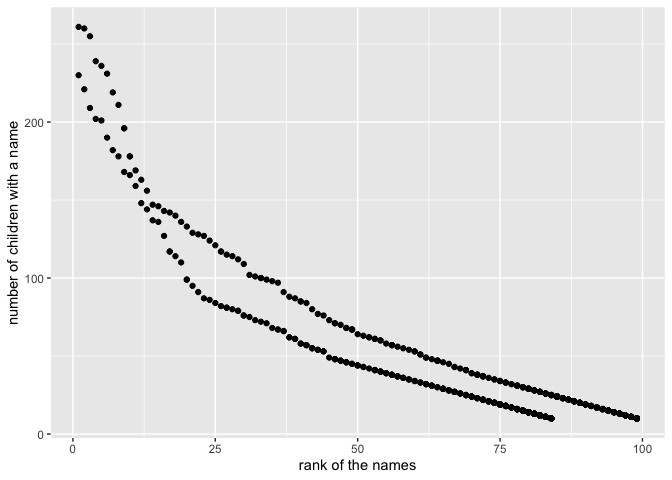
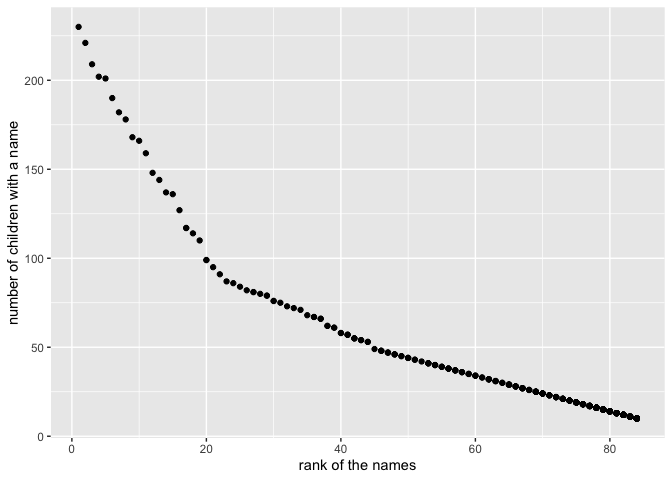
This is version 2 of homework. Changes: 1.Understanding of Q3 has been changed; 2.Discover the problem in Q2: There is 2 in prez_gop's original data, change filter "value == 1" to "value != 0".

diff --git a/p8105_hw2_ym2771.md b/p8105_hw2_ym2771.md
@@ -49,7 +49,7 @@ precip_data <-
     mutate(Month = month.name[Month])
 ```
 
-  - The total precipitation in 2018 is 32.93
+  - The total precipitation in 2018 is 23.5
 
   - The median number of sports balls in a dumpster in 2017 is 8
 
@@ -65,7 +65,7 @@ pols_month <-
     arrange(year, month) %>% 
     mutate(month = month.name[month]) %>%
     pivot_longer(cols = c(prez_gop, prez_dem),names_to = "president", names_prefix = "prez_",values_to = "value") %>% 
-    filter(value == 1) %>% 
+    filter(value != 0) %>% 
     select(-value,-day)
 ```
 
@@ -145,7 +145,7 @@ FiveThirtyEight <-
 
     ## Joining, by = c("year", "month")
 
-  - The first data frame “pols\_month” is the basic data frame with 817
+  - The first data frame “pols\_month” is the basic data frame with 822
     rows \* 9 columns, the range of year is from 1947 to 2015, and the
     names of the key variables are gov\_gop, sen\_gop, rep\_gop,
     gov\_dem, sen\_dem, rep\_dem, president
@@ -220,7 +220,7 @@ Ethan <-
 ``` r
 plot_data <- 
     pop_bb_name %>% 
-    filter(year_of_birth == "2016" & ethnicity == "WHITE NON HISP")
+    filter(year_of_birth == "2016" & ethnicity == "WHITE NON HISP" & gender == "FEMALE")
 
 g <- ggplot(data = plot_data, aes(x= rank, y = count))
 g + geom_point()+xlab( "rank of the names")+ ylab( "number of children with a name")
